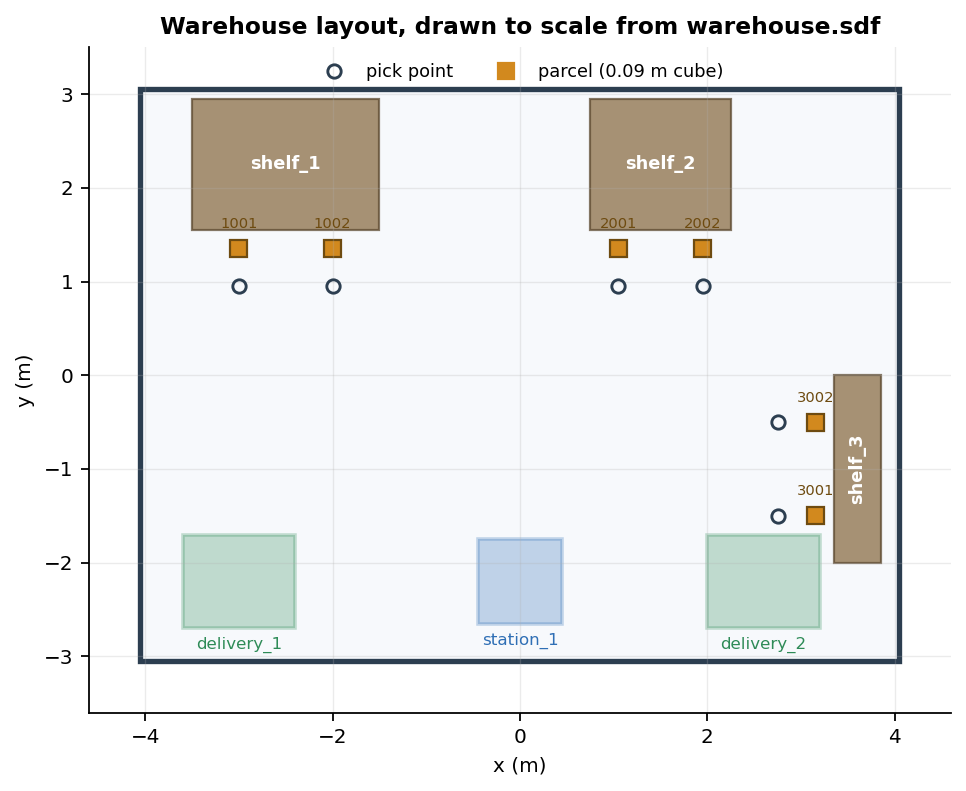
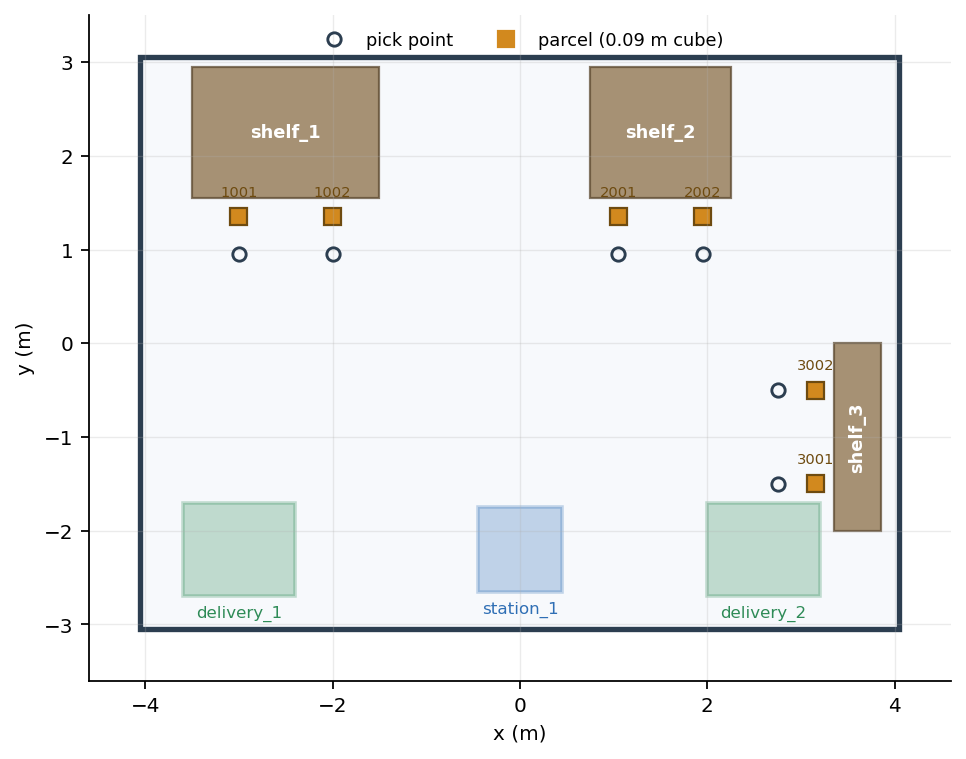
Drop the titles from the generated figures too
The twelve UML diagrams lost their titles earlier for the same reason these
nineteen now do: every figure already carries a LaTeX caption directly beneath
it, so the title said the same thing twice, in a smaller font, baked into a PNG
where it cannot be edited.

Three titles were computed from data rather than fixed text, so before removing
them each number was checked against the prose. The test count and the
acceptance total were already stated in the text. The size of the training set
was not stated anywhere else, so it has moved into that figure's caption, along
with the held-out split size that the confusion matrix title used to carry.

The figures are smaller and have more room for their content: the process
diagram drops from 72 to 61 kB.

diff --git a/tools/report/make_figures.py b/tools/report/make_figures.py
@@ -98,7 +98,6 @@ def fig_battery_session(rows):
 
     ax.set_xlabel("elapsed time (minutes)")
     ax.set_ylabel("charge (%)")
-    ax.set_title("Battery over one session, measured from the run log")
     ax.set_ylim(0, 105)
     ax.legend(loc="lower left", ncol=3, fontsize=8)
     save(fig, "fig-battery-session.png")
@@ -126,7 +125,6 @@ def fig_temperature_session(rows):
 
     ax.set_xlabel("elapsed time (minutes)")
     ax.set_ylabel("temperature (C)")
-    ax.set_title("Motor temperature crossing the limit and entering cooldown")
     ax.legend(loc="lower right", ncol=2, fontsize=8)
     save(fig, "fig-temperature-session.png")
 
@@ -144,7 +142,6 @@ def fig_duty_states(rows):
     ax.set_yticks(range(len(order)))
     ax.set_yticklabels(order)
     ax.set_xlabel("elapsed time (minutes)")
-    ax.set_title("Duty-cycle states over the same session")
     ax.grid(axis="y", alpha=0)
     save(fig, "fig-duty-states.png")
 
@@ -155,7 +152,6 @@ def fig_condition_wear(rows):
             color=PURPLE, lw=1.8)
     ax.set_xlabel("elapsed time (minutes)")
     ax.set_ylabel("condition (%)")
-    ax.set_title("Mechanical condition degrading with energy throughput and heat")
     total = rows[0]["condition_percent"] - rows[-1]["condition_percent"]
     ax.annotate(f"{total:.2f} percentage points lost\nover {rows[-1]['t'] / 60:.0f} minutes",
                 xy=(rows[-1]["t"] / 60, rows[-1]["condition_percent"]),
@@ -182,7 +178,6 @@ def fig_payload_energy():
         ax.text(x, value, f"{value:.3f}", ha="center", va="bottom", fontsize=8)
     ax.set_xlabel("payload (kg) - the six catalogue weights")
     ax.set_ylabel("energy per metre (Wh/m)")
-    ax.set_title("Heavier products cost more energy for the same distance")
     save(fig, "fig-payload-energy.png")
 
 
@@ -200,7 +195,6 @@ def fig_delivery_accuracy():
                label=f"mean {np.mean(measured):.2f} m")
     ax.set_xlabel("delivery (in the order measured)")
     ax.set_ylabel("distance from the bay (m)")
-    ax.set_title("Delivery accuracy, verified against simulator ground truth")
     ax.set_ylim(0, 0.85)
     ax.legend(fontsize=8)
     save(fig, "fig-delivery-accuracy.png")
@@ -218,7 +212,6 @@ def fig_predicted_vs_actual():
     ax.set_ylim(*limits)
     ax.set_xlabel("predicted route length (m)")
     ax.set_ylabel("measured route length (m)")
-    ax.set_title("Predicted vs measured\nroute length")
     ax.legend(fontsize=8, loc="upper left")
     ax.set_aspect("equal")
     save(fig, "fig-predicted-vs-actual.png")
@@ -235,7 +228,6 @@ def fig_category_balance():
         ax.text(bar.get_x() + bar.get_width() / 2, value, str(value),
                 ha="center", va="bottom", fontweight="bold")
     ax.set_ylabel("number of functionalities")
-    ax.set_title("Balance of functionality across the three required categories")
     ax.set_ylim(0, 11)
     save(fig, "fig-category-balance.png")
 
@@ -251,7 +243,6 @@ def fig_test_composition():
         ax.text(bar.get_x() + bar.get_width() / 2, value, str(value),
                 ha="center", va="bottom", fontweight="bold")
     ax.set_ylabel("tests")
-    ax.set_title(f"Automated test suite: {sum(counts)} tests, no simulator required")
     # The gate test is parameterised over the eight gated pages, so 16 tests run as 23 cases.
     ax.set_ylim(0, 7)
     save(fig, "fig-test-composition.png")
@@ -270,8 +261,6 @@ def fig_acceptance_results():
     ax.set_yticks([0, 1])
     ax.set_yticklabels(["fail", "pass"])
     ax.set_ylim(0, 1.35)
-    ax.set_title(f"Acceptance checks against the live system: "
-                 f"{sum(passed)}/{len(passed)} passed")
     save(fig, "fig-acceptance-results.png")
 
 
@@ -292,7 +281,6 @@ def fig_test_pyramid():
     ax.set_xlim(0, 1)
     ax.set_ylim(0, 3.05)
     ax.axis("off")
-    ax.set_title("Three-layer test strategy")
     save(fig, "fig-test-pyramid.png")
 
 
@@ -308,7 +296,6 @@ def fig_ml_class_balance():
         ax.text(x, value, f"{value}\n({value / len(rows):.0%})", ha="center",
                 va="bottom", fontsize=8.5)
     ax.set_ylabel("training examples")
-    ax.set_title(f"Class balance of the {len(rows)}-run training set")
     ax.set_ylim(0, feasible * 1.25)
     save(fig, "fig-ml-class-balance.png")
 
@@ -325,7 +312,6 @@ def fig_ml_confusion():
     ax.set_xticks([0, 1]); ax.set_xticklabels(["refuse", "accept"])
     ax.set_yticks([0, 1]); ax.set_yticklabels(["refuse", "accept"])
     ax.set_xlabel("predicted"); ax.set_ylabel("actual")
-    ax.set_title("Confusion matrix on the\nheld-out test split (1000 runs)")
     ax.grid(False)
     save(fig, "fig-ml-confusion.png")
 
@@ -340,7 +326,6 @@ def fig_ml_importance():
         ax.text(value + 0.008, index, f"{value:.3f}", va="center", fontsize=8.5)
     ax.set_xlabel("relative importance")
     ax.set_xlim(0, 0.78)
-    ax.set_title("What the classifier keys on")
     save(fig, "fig-ml-importance.png")
 
 
@@ -366,7 +351,6 @@ def fig_ml_pipeline():
             ha="center", fontsize=7.8, color=GREY)
     ax.set_xlim(0.2, 9.2); ax.set_ylim(0.2, 1.9)
     ax.axis("off")
-    ax.set_title("Machine-learning pipeline")
     save(fig, "fig-ml-pipeline.png")
 
 
@@ -409,7 +393,6 @@ def fig_warehouse_layout():
     ax.set_xlim(-4.6, 4.6); ax.set_ylim(-3.6, 3.5)
     ax.set_xlabel("x (m)"); ax.set_ylabel("y (m)")
     ax.set_aspect("equal")
-    ax.set_title("Warehouse layout, drawn to scale from warehouse.sdf")
     ax.legend(loc="upper center", ncol=2, fontsize=8)
     save(fig, "fig-warehouse-layout.png")
 
@@ -435,7 +418,6 @@ def fig_layered_architecture():
             ha="center", fontsize=8, color=GREY)
     ax.set_xlim(-0.06, 1.0); ax.set_ylim(-0.12, 4.7)
     ax.axis("off")
-    ax.set_title("Layered architecture")
     save(fig, "fig-layered-architecture.png")
 
 
@@ -474,7 +456,6 @@ def fig_dependency_direction():
             ha="center", fontsize=8.5, color=GREEN)
     ax.set_xlim(0.0, 8.0); ax.set_ylim(-0.5, 3.3)
     ax.axis("off")
-    ax.set_title("Dependency direction: the decision logic depends on nothing")
     save(fig, "fig-dependency-direction.png")
 
 
@@ -539,7 +520,6 @@ def fig_incremental():
     ax.set_xlim(-0.35, 10.1)
     ax.set_ylim(-1.00, 3.15)
     ax.axis("off")
-    ax.set_title("The incremental model as followed: each increment runs the full phase sequence")
     save(fig, "fig-incremental-model.png")
 
 

diff --git a/report/RoboFetch_Software_Engineering_Report.tex b/report/RoboFetch_Software_Engineering_Report.tex
@@ -1878,7 +1878,9 @@ two classes is not a perfectly sharp line, which would otherwise let the classif
 rule.
 
 \uploadedfigure{Figures/fig-ml-class-balance.png}{0.62\textwidth}
-{Class balance of the generated training set.}{fig:mlbalance}
+{Class balance of the generated training set. The set holds 4000 hypothetical orders, each
+labelled by running the deterministic model forward to see whether the robot could in fact
+have completed it.}{fig:mlbalance}
 
 \section{Avoiding Information Leakage}
 The generated file contains columns that the model is deliberately \emph{not} given, in particular
@@ -1900,7 +1902,7 @@ classifier trained on a set where almost everything succeeds learns to say yes, 
 nothing to a workflow whose entire purpose is to be able to say no.
 
 \uploadedfigure{Figures/fig-ml-confusion.png}{0.60\textwidth}
-{Confusion matrix on the held-out test split.}{fig:confusion}
+{Confusion matrix on the held-out test split, the 1000 runs of the 4000 not used for training.}{fig:confusion}
 
 \uploadedfigure{Figures/fig-ml-importance.png}{0.82\textwidth}
 {Relative importance of the five features.}{fig:importance}
